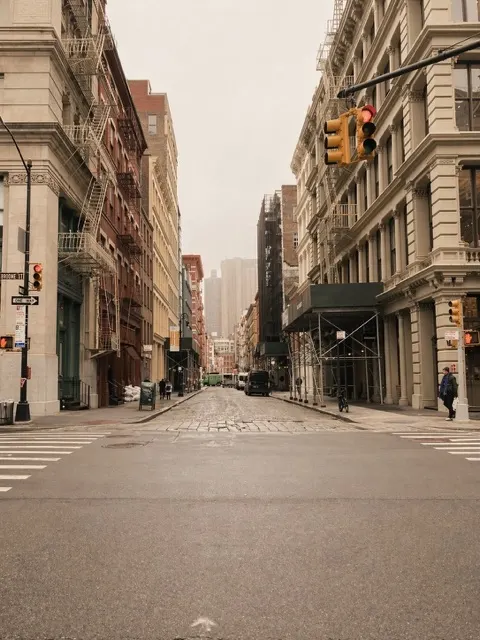
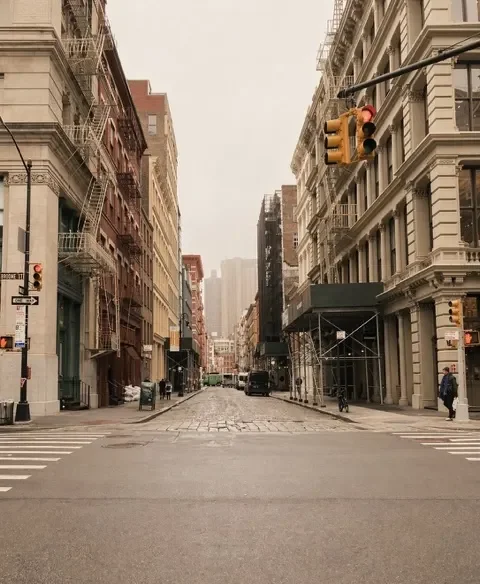
UNIQLO: crop SOHO street photo bottom to match LifeWear AR
Both photos now share AR 0.8219 (900x1095 / 986x1200), so they render
the same visual height when paired side-by-side.  Updated all four
encodings (jpg + webp, 640w + 1200w) and the HTML width/height attrs
for accurate layout reservation.

diff --git a/uniqlo-case-study.html b/uniqlo-case-study.html
@@ -372,7 +372,7 @@
           <img src="images/soho-street-1200.jpg"
                srcset="images/soho-street-640.jpg 640w, images/soho-street-1200.jpg 1200w"
                sizes="(max-width: 700px) 100vw, 540px"
-               width="1086" height="1448"
+               width="900" height="1095"
                loading="lazy" decoding="async"
                alt="Broome Street, SOHO, looking west on a quiet weekday morning before the Saturday rush."
                style="width: 100%; height: auto; display: block; border: 1px solid var(--rule-strong);">
